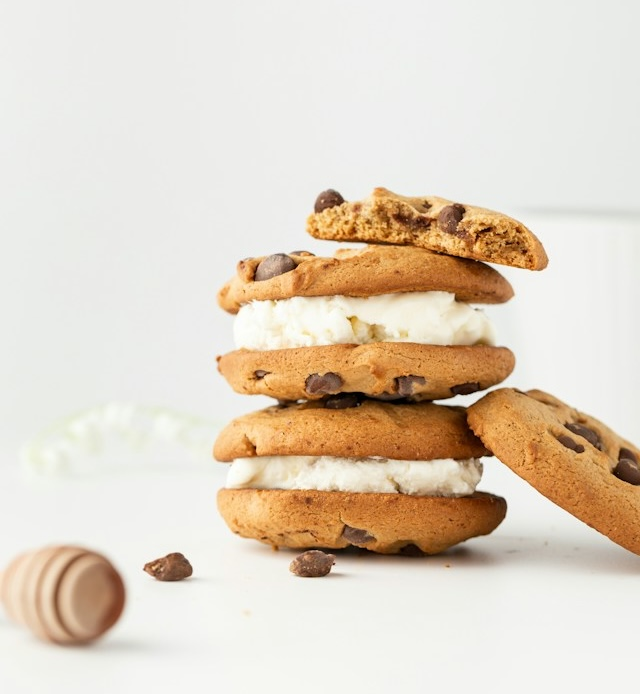
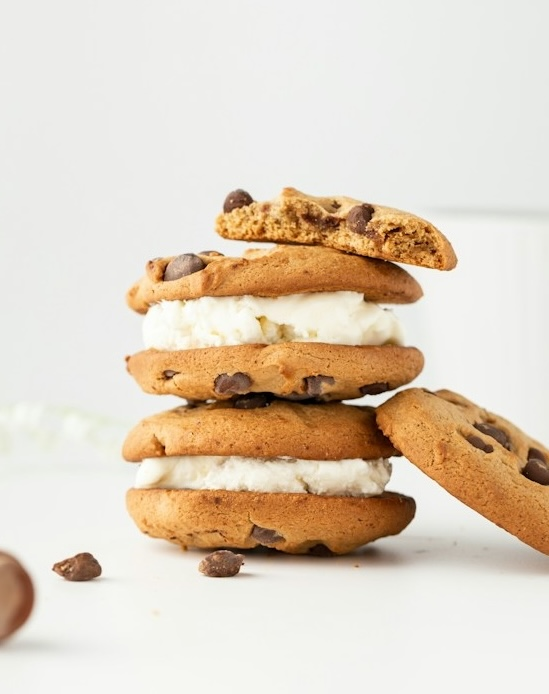
progress on FA theme

Changed region(s): [[0.0, 0.2723, 0.9909, 0.9683]]

diff --git a/src/themes/fa.css b/src/themes/fa.css
@@ -302,9 +302,9 @@
   /**
    * Transitions
    */
-  --wa-transition-normal: 250ms;
-  --wa-transition-fast: 150ms;
-  --wa-transition-faster: 50ms;
+  --wa-transition-normal: 0ms;
+  --wa-transition-fast: 0ms;
+  --wa-transition-faster: 0ms;
 
   /**
    * Component groups
@@ -391,7 +391,7 @@
   --wa-color-brand-fill-highlight: var(--wa-color-blue-20);
   --wa-color-brand-border-subtle: var(--wa-color-blue-60);
   --wa-color-brand-border-highlight: var(--wa-color-blue-70);
-  --wa-color-brand-text-on-spot: var(--wa-color-blue-10);
+  --wa-color-brand-text-on-spot: var(--wa-color-blue-05);
   --wa-color-brand-text-on-fill: var(--wa-color-blue-80);
   --wa-color-brand-text-on-surface: var(--wa-color-blue-70);
 
@@ -401,7 +401,7 @@
   --wa-color-success-fill-highlight: var(--wa-color-green-20);
   --wa-color-success-border-subtle: var(--wa-color-green-60);
   --wa-color-success-border-highlight: var(--wa-color-green-70);
-  --wa-color-success-text-on-spot: var(--wa-color-green-10);
+  --wa-color-success-text-on-spot: var(--wa-color-green-05);
   --wa-color-success-text-on-fill: var(--wa-color-green-80);
   --wa-color-success-text-on-surface: var(--wa-color-green-70);
 
@@ -411,7 +411,7 @@
   --wa-color-warning-fill-highlight: var(--wa-color-yellow-20);
   --wa-color-warning-border-subtle: var(--wa-color-yellow-60);
   --wa-color-warning-border-highlight: var(--wa-color-yellow-70);
-  --wa-color-warning-text-on-spot: var(--wa-color-yellow-10);
+  --wa-color-warning-text-on-spot: var(--wa-color-yellow-05);
   --wa-color-warning-text-on-fill: var(--wa-color-yellow-80);
   --wa-color-warning-text-on-surface: var(--wa-color-yellow-70);
 
@@ -421,7 +421,7 @@
   --wa-color-danger-fill-highlight: var(--wa-color-red-20);
   --wa-color-danger-border-subtle: var(--wa-color-red-60);
   --wa-color-danger-border-highlight: var(--wa-color-red-70);
-  --wa-color-danger-text-on-spot: var(--wa-color-red-10);
+  --wa-color-danger-text-on-spot: var(--wa-color-red-05);
   --wa-color-danger-text-on-fill: var(--wa-color-red-80);
   --wa-color-danger-text-on-surface: var(--wa-color-red-70);
 
@@ -431,7 +431,7 @@
   --wa-color-neutral-fill-highlight: var(--wa-color-base-30);
   --wa-color-neutral-border-subtle: var(--wa-color-base-60);
   --wa-color-neutral-border-highlight: var(--wa-color-base-70);
-  --wa-color-neutral-text-on-spot: var(--wa-color-base-10);
+  --wa-color-neutral-text-on-spot: var(--wa-color-base-05);
   --wa-color-neutral-text-on-fill: var(--wa-color-base-80);
   --wa-color-neutral-text-on-surface: var(--wa-color-base-70);
 }
@@ -445,7 +445,7 @@
   position: absolute;
   top: 0;
   right: 0;
-  background: url('/assets/images/kitchen-sink/fa/hero.png') 90% 6rem / 29% no-repeat;
+  background: url('/assets/images/kitchen-sink/fa/hero.png') 87.5% 7rem / 25% no-repeat;
   width: 100%;
   height: 1000px;
   filter: drop-shadow(0 0.5rem 1rem rgb(0 0 0 / 0.1));
@@ -456,17 +456,56 @@
 }
 
 .hero {
-  background: var(--wa-color-warning-fill-highlight);
-  color: var(--wa-color-text-normal);
+  background: var(--wa-color-warning-spot);
+  color: var(--wa-color-warning-text-on-spot);
   width: 80%;
 }
 
 .hero .title {
-  padding-block: 6rem;
+  padding-block: 5rem;
 }
 
 h1.hero-title {
   font-size: var(--wa-font-size-4xl);
+}
+
+pre.codeblock,
+.post-body code {
+  background-color: color-mix(in oklab, var(--wa-color-base-50), transparent 90%);
+}
+
+wa-alert {
+  --content-color: var(--wa-color-text-normal);
+  --icon-color: var(--border-color);
+
+  .wa-theme-fa-dark & {
+    --background: var(--wa-color-surface-lowered);
+  }
+
+  &[variant='brand'] {
+    --border-color: var(--wa-color-brand-border-highlight);
+  }
+  &[variant='success'] {
+    --border-color: var(--wa-color-success-border-highlight);
+  }
+  &[variant='warning'] {
+    --border-color: var(--wa-color-warning-border-highlight);
+  }
+  &[variant='danger'] {
+    --border-color: var(--wa-color-danger-border-highlight);
+  }
+  &[variant='neutral'] {
+    --border-color: var(--wa-color-neutral-border-highlight);
+  }
+}
+
+wa-badge {
+  --border-color: var(--background);
+  text-transform: uppercase;
+
+  &::part(base) {
+    font-weight: var(--wa-font-weight-heavy);
+  }
 }
 
 wa-button:not([variant='text']) {
@@ -501,61 +540,41 @@ wa-button:not([variant='text']) {
   }
 }
 
+wa-card {
+  --border-width: 0px;
+
+  & .title {
+    font-size: var(--wa-font-size-xl);
+  }
+
+  & wa-rating {
+    --symbol-size: var(--wa-font-size-m);
+  }
+}
+
+wa-carousel {
+  --pagination-color-activated: var(--wa-color-brand-spot);
+}
+
 wa-checkbox,
 wa-radio {
   --checked-icon-color: var(--wa-color-surface-default);
 }
 
-wa-radio-group > wa-radio-button,
-wa-radio-group > wa-button {
-  --box-shadow: none;
-}
+wa-radio-group > wa-radio-button {
+  --background-active: var(--wa-color-neutral-text-on-surface);
+  --border-color-active: var(--background-active);
+  --box-shadow: var(--wa-shadow-offset-x-level-1) var(--wa-shadow-offset-y-level-1) var(--wa-shadow-blur-level-1)
+    var(--border-color);
+  --label-color-active: var(--wa-color-surface-default);
 
-wa-switch {
-  --background: var(--wa-color-neutral-spot);
-  --border-color: var(--wa-color-neutral-spot);
-}
-
-wa-alert {
-  --content-color: var(--wa-color-text-normal);
-  --icon-color: var(--border-color);
-
-  .wa-theme-fa-dark & {
-    --background: var(--wa-color-surface-lowered);
+  &:active,
+  &[checked] {
+    --background: var(--wa-color-neutral-text-on-surface);
+    --box-shadow: none;
+    --label-color: var(--wa-color-surface-default);
+    transform: translateX(var(--wa-shadow-offset-x-level-1)) translateY(var(--wa-shadow-offset-y-level-1));
   }
-
-  &[variant='brand'] {
-    --border-color: var(--wa-color-brand-border-highlight);
-  }
-  &[variant='success'] {
-    --border-color: var(--wa-color-success-border-highlight);
-  }
-  &[variant='warning'] {
-    --border-color: var(--wa-color-warning-border-highlight);
-  }
-  &[variant='danger'] {
-    --border-color: var(--wa-color-danger-border-highlight);
-  }
-  &[variant='neutral'] {
-    --border-color: var(--wa-color-neutral-border-highlight);
-  }
-}
-
-wa-card {
-  --border-width: 0px;
-}
-
-wa-badge {
-  --border-color: var(--background);
-  text-transform: uppercase;
-
-  &::part(base) {
-    font-weight: var(--wa-font-weight-heavy);
-  }
-}
-
-wa-tag {
-  font-weight: var(--wa-font-weight-heavy);
 }
 
 wa-switch {
@@ -567,6 +586,25 @@ wa-switch {
   --height: 1.5em;
   --width: calc(var(--thumb-size) * 2.5);
 }
+
+wa-tag {
+  font-weight: var(--wa-font-weight-heavy);
+}
+
+.message-composer wa-card::part(header) {
+  background-color: var(--wa-color-neutral-fill-highlight);
+  color: var(--wa-color-neutral-text-on-fill);
+
+  & wa-icon-button {
+    color: var(--wa-color-text-normal);
+  }
+}
+
+wa-input > wa-icon,
+wa-select > wa-icon {
+  color: var(--wa-color-text-quiet);
+}
+
 /* #endregion */
 
 /* _utility.css */